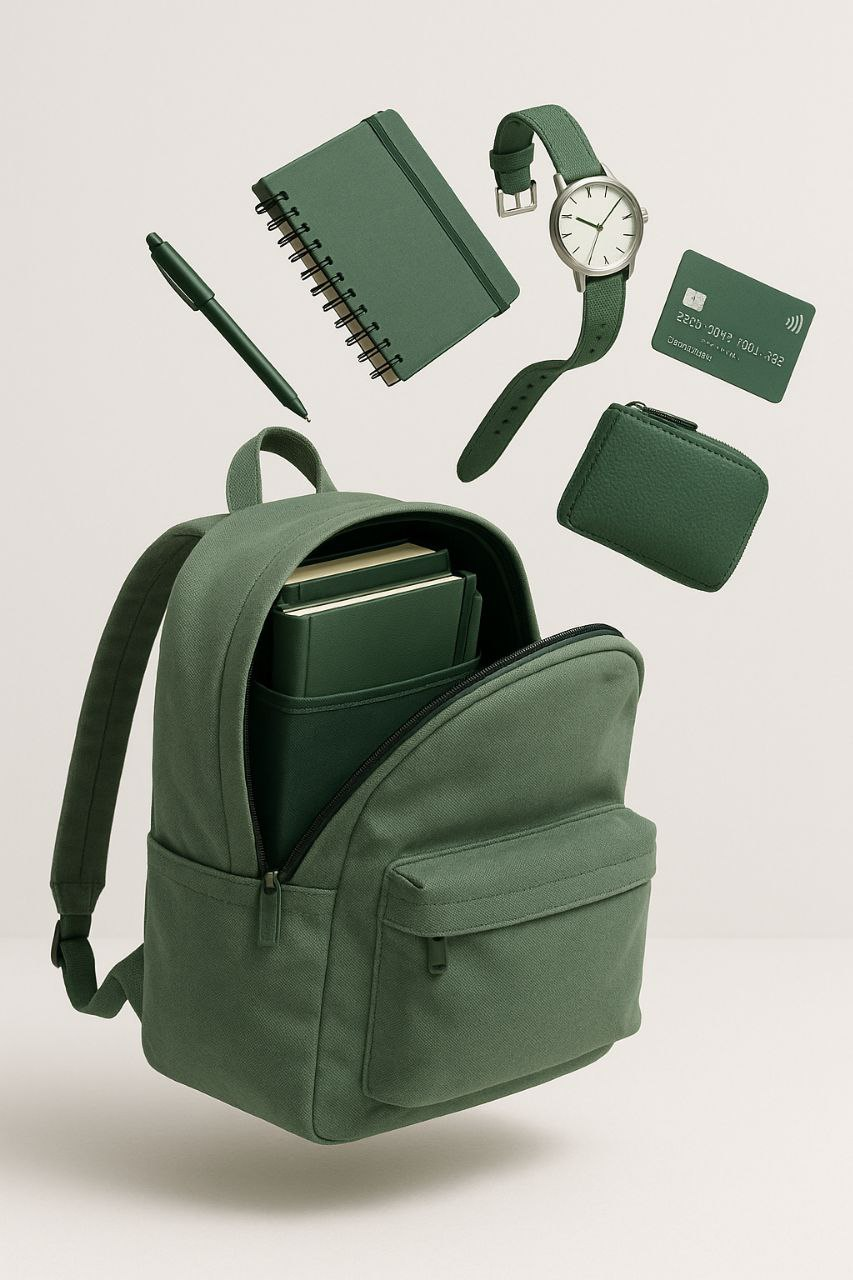
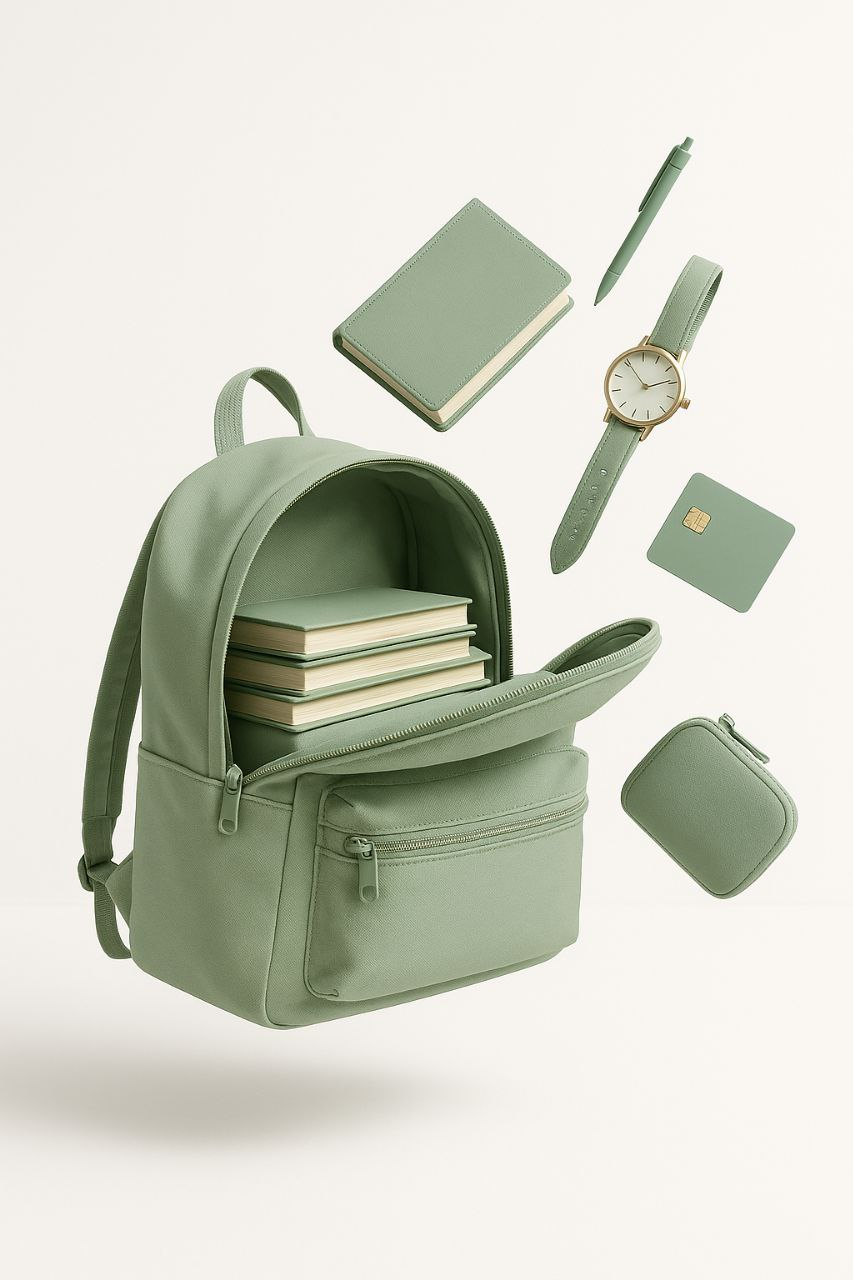
Fixed alignment issues

diff --git a/back2me-frontend/src/components/HomeCarousel.jsx b/back2me-frontend/src/components/HomeCarousel.jsx
@@ -42,8 +42,8 @@ function ImageCarousel() {
   }, [activeItem]);
   return (<div className="w-full font-sans">
       <div className="w-full max-w-7xl p-2 sm:p-4 md:p-6 lg:p-8">
-        <ul ref={wrapperRef} className="flex w-full flex-col gap-2 h-[200px] sm:h-[280px] md:h-[360px] lg:h-[460px] md:flex-row md:gap-[4.5%]">
-          {persons.map((person, index) => <li onClick={() => setActiveItem(index)} aria-current={activeItem === index} className={classNames("relative group cursor-pointer transition-all duration-500 ease-in-out", "w-full h-[60px] sm:h-[80px] md:w-[16%] md:h-full", "[&[aria-current='true']]:h-[160px] sm:[&[aria-current='true']]:h-[200px] md:[&[aria-current='true']]:w-[48%] md:[&[aria-current='true']]:h-full", "flex-shrink-0", "md:[transition:width_var(--transition,300ms_ease_in)]")} key={person.name}>
+        <ul ref={wrapperRef} className="flex w-full flex-col gap-2 h-[200px] sm:h-[280px] md:h-[360px] lg:h-[540px] md:flex-row md:gap-[6%]">
+          {persons.map((person, index) => <li onClick={() => setActiveItem(index)} aria-current={activeItem === index} className={classNames("relative group cursor-pointer transition-all duration-500 ease-in-out", "w-full h-[60px] sm:h-[80px] md:w-[16%] md:h-full", "[&[aria-current='true']]:h-[160px] sm:[&[aria-current='true']]:h-[200px] md:[&[aria-current='true']]:w-[55%] md:[&[aria-current='true']]:h-full", "flex-shrink-0", "md:[transition:width_var(--transition,300ms_ease_in)]")} key={person.name}>
               {}
               <div className="relative h-full w-full overflow-hidden rounded-lg sm:rounded-xl md:rounded-2xl shadow-lg sm:shadow-xl md:shadow-2xl transition-transform duration-500 ease-in-out group-hover:scale-105 group-hover:z-10 transform-gpu">
                 <img className={classNames("absolute left-1/2 top-1/2 w-full h-full -translate-x-1/2 -translate-y-1/2 object-cover transition-all duration-500 ease-in-out", activeItem === index ? 'scale-105' : 'scale-100')} src={person.img} alt={person.name} />

diff --git a/back2me-frontend/src/pages/Home.jsx b/back2me-frontend/src/pages/Home.jsx
@@ -55,11 +55,11 @@ const Home = () => {
           >
             {/* Left side - Text content */}
             <motion.div 
-              className="flex-1 lg:pr-8 lg:pl-18 max-w-2xl"
+              className="flex-1 lg:pr-8 lg:pl-4 max-w-2xl"
               variants={itemVariants}
             >
               <motion.h1 
-                className="text-2xl sm:text-3xl lg:text-8xl text-gray-800 mb-6 lg:mb-8 text-center lg:text-left lg:ml-8"
+                className="text-2xl sm:text-3xl lg:text-8xl text-gray-800 mb-6 lg:mb-8 text-center lg:text-left lg:ml-0"
                 variants={textVariants}
               >
                 Together,<br />We bring it <br />Back.